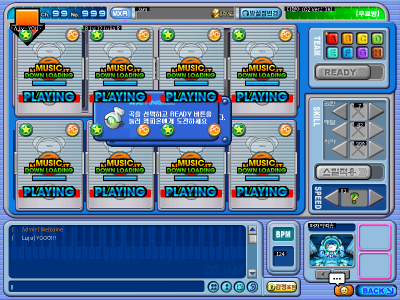
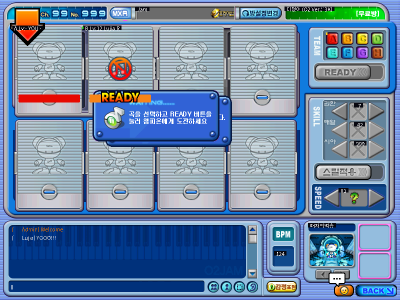
feat(waiting): paint seat indicators from live seat flags
The seat template `SET 0x0C 0x00015000` cloned per seat, but every seat
painted every indicator: eight `PLAYING` banners and eight
`MUSIC DOWN LOADING` strips over empty plates. Seat clones now reach
the frame only for occupied seats, and each armed indicator paints its
own frame from the seat's wire data:

- `Wait_ReadyWindow.ojs` (team plate) - one frame per team colour
  (eight layers = teams A-H), frame = team + 1
- `Wait_BossMark.ojs` - the room master's seat only
- `Wait_ReadyText.ojs` - ready seats
- `Wait_NoMusicImage.ojs` - the room names no song
- `Wait_Playing.ojs` - `RoomMember.playing_state` nonzero

Bodies with no pinned flag stay dark and are labelled OPEN with their
next evidence step (`Wait_PCRoomMark`, the download pair, the P2P
banner, the gem marker). The seat indicators also make the viewer's own
flags visible: the self seat now reads its own ready byte (the same
source the fallback rows and the READY toggle use).

Refs #40

diff --git a/crates/o2jam-shell/src/screens/paint.rs b/crates/o2jam-shell/src/screens/paint.rs
@@ -2917,7 +2917,11 @@ fn peer_seat(slot: &RoomSlot) -> WaitingSeat {
 /// Eight seat views: our seat first, then the wire slots, padded empty.
 ///
 /// The wire carries seven peer slots beside self (`JoinedRoom.slots`);
-/// together they are the eight waiting-room seats.
+/// together they are the eight waiting-room seats. OPEN: `slots`
+/// includes our own index (`member_id`), so this view paints our
+/// member twice — the seat-to-cover mapping needs evidence (next step:
+/// a 7.55 waiting capture with two players seated in known slots, then
+/// compare which cover each name lands on).
 #[must_use]
 pub(crate) fn waiting_seats(room: &JoinedRoom) -> Vec<WaitingSeat> {
     let mut seats = Vec::with_capacity(WAITING_SEATS);
@@ -3016,7 +3020,11 @@ pub fn paint_waiting_scene(
     art: &SceneArt,
     captions: &WaitingCaptions<'_>,
 ) {
-    art.paint_backdrop(frame, Screen::Waiting);
+    let seats = staged_seats(room);
+    art.paint_backdrop_live(frame, Screen::Waiting, |placed| {
+        waiting_seat_clone_live(placed, &seats)
+    });
+    paint_waiting_seat_marks(frame, &seats, art);
     if waiting_has_staged_covers(&art.placements) {
         paint_waiting_staged(frame, room, &art.placements, captions);
     } else {
@@ -3090,6 +3098,163 @@ struct StagedSeat {
     present: bool,
     locked: bool,
     champion: bool,
+    /// `RoomMember.master`: the room creator's seat.
+    master: bool,
+    /// `RoomMember.playing_state` nonzero (the member is playing).
+    playing: bool,
+    /// The room names a song (`JoinedRoom.music_id` nonzero).
+    has_song: bool,
+}
+
+/// Seat parents of the `SET 0x0C 0x00015000` seat template, in seat
+/// order: `IDC_BUTTON_SWAIT_EXTEND1..8` (`0x16015022..29`) carry the
+/// eight seat rects, and each one hosts one clone of the template's
+/// 12 members (`docs/ui-loader.md` step 8: the group key is
+/// `code & 0xFF000` = `0x15000`).
+const WAITING_SEAT_PARENT_IDS: [&str; WAITING_SEATS] = [
+    "IDC_BUTTON_SWAIT_EXTEND1",
+    "IDC_BUTTON_SWAIT_EXTEND2",
+    "IDC_BUTTON_SWAIT_EXTEND3",
+    "IDC_BUTTON_SWAIT_EXTEND4",
+    "IDC_BUTTON_SWAIT_EXTEND5",
+    "IDC_BUTTON_SWAIT_EXTEND6",
+    "IDC_BUTTON_SWAIT_EXTEND7",
+    "IDC_BUTTON_SWAIT_EXTEND8",
+];
+
+/// A seat indicator body of the seat template and the live flag that
+/// arms it. Bodies with no pinned flag stay dark (see
+/// [`seat_indicator`]).
+#[derive(Debug, Clone, Copy, PartialEq, Eq)]
+enum SeatIndicator {
+    /// `Wait_ReadyWindow.ojs`: the seat's name plate, one frame per
+    /// team colour (eight layers = teams A–H).
+    TeamPlate,
+    /// `Wait_BossMark.ojs`: the master's star.
+    MasterStar,
+    /// `Wait_ReadyText.ojs`: the ready plate.
+    ReadyPlate,
+    /// `Wait_NoMusicImage.ojs`: the room names no song yet.
+    NoSong,
+    /// `Wait_Playing.ojs`: the member is playing.
+    Playing,
+}
+
+impl SeatIndicator {
+    /// Body name of this indicator.
+    const fn sprite(self) -> &'static str {
+        match self {
+            SeatIndicator::TeamPlate => "Wait_ReadyWindow.ojs",
+            SeatIndicator::MasterStar => "Wait_BossMark.ojs",
+            SeatIndicator::ReadyPlate => "Wait_ReadyText.ojs",
+            SeatIndicator::NoSong => "Wait_NoMusicImage.ojs",
+            SeatIndicator::Playing => "Wait_Playing.ojs",
+        }
+    }
+
+    /// Icon-control frame for this seat (frame *n* paints layer *n−1*;
+    /// the setter clamps, see [`icon_frame_layer`]).
+    fn frame(self, seat: &StagedSeat) -> Option<u8> {
+        if !seat.present {
+            return None;
+        }
+        match self {
+            SeatIndicator::TeamPlate => Some(seat.team.saturating_add(1)),
+            SeatIndicator::MasterStar => seat.master.then_some(1),
+            SeatIndicator::ReadyPlate => seat.ready.then_some(1),
+            SeatIndicator::NoSong => (!seat.has_song).then_some(1),
+            SeatIndicator::Playing => seat.playing.then_some(1),
+        }
+    }
+}
+
+/// Indicator body behind one seat-template sprite name. Bodies with no
+/// pinned flag return `None` and stay dark:
+///
+/// - `Wait_PCRoomMark.ojs` — PC-room badge; the wire carries no
+///   matching field (OPEN: find the flag the exe reads).
+/// - `Wait_Downloding.ojs` / `Wait_Downloding_Bar.ojs` — song download
+///   progress; the shell models no download (OPEN).
+/// - `Waiting_P2P_Image.ojs` — P2P versus banner; needs the room's
+///   venue class (OPEN).
+/// - `Wait_NoGemImage.ojs` — gem-less marker; `RoomMember.gem` exists,
+///   but which value arms the plate is untraced (OPEN).
+fn seat_indicator(sprite: &str) -> Option<SeatIndicator> {
+    [
+        SeatIndicator::TeamPlate,
+        SeatIndicator::MasterStar,
+        SeatIndicator::ReadyPlate,
+        SeatIndicator::NoSong,
+        SeatIndicator::Playing,
+    ]
+    .into_iter()
+    .find(|indicator| indicator.sprite() == sprite)
+}
+
+/// Seat index owning one staged clone (`None` for other placements).
+fn seat_clone_index(placed: &ScenePlacement) -> Option<usize> {
+    if placed.role != PlacementRole::Clone {
+        return None;
+    }
+    WAITING_SEAT_PARENT_IDS
+        .iter()
+        .position(|id| *id == placed.id)
+}
+
+/// Whether one seat-template clone reaches the frame: occupied seats
+/// show the armed indicators, vacant and locked seats keep their bare
+/// cover plate (the exe clones the template per seated player only).
+fn waiting_seat_clone_live(placed: &ScenePlacement, seats: &[StagedSeat]) -> bool {
+    let Some(index) = seat_clone_index(placed) else {
+        return true;
+    };
+    let Some(seat) = seats.get(index) else {
+        return false;
+    };
+    if !seat.present {
+        return false;
+    }
+    let Some(indicator) = placed.sprite.as_deref().and_then(seat_indicator) else {
+        return false;
+    };
+    indicator.frame(seat).is_some()
+}
+
+/// Paint every armed seat indicator at its clone rect with the seat's
+/// frame. The clone base pass already painted frame 0 there, so this
+/// pass owns the live frame; unarmed bodies were filtered out above.
+fn paint_waiting_seat_marks(frame: &mut Frame<'_>, seats: &[StagedSeat], art: &SceneArt) {
+    for placed in &art.placements {
+        let Some(index) = seat_clone_index(placed) else {
+            continue;
+        };
+        let Some(seat) = seats.get(index) else {
+            continue;
+        };
+        let Some(indicator) = placed.sprite.as_deref().and_then(seat_indicator) else {
+            continue;
+        };
+        let (Some(figure_name), Some(icon_frame)) =
+            (placed.sprite.as_deref(), indicator.frame(seat))
+        else {
+            continue;
+        };
+        let Some(figure) = art.figures.get(figure_name) else {
+            continue;
+        };
+        let Some(layer) = icon_frame_layer(icon_frame, figure.len()).and_then(|i| figure.layer(i))
+        else {
+            continue;
+        };
+        let dest = scale_rect_to_frame(&placed.rect, frame.w, frame.h);
+        blit_rgb555(
+            frame,
+            &layer.image.view(),
+            dest.x + layer.dx,
+            dest.y + layer.dy,
+            Some(layer.colorkey),
+        );
+    }
 }
 
 /// Staged seats in cover order: self first, then the seven wire slots
@@ -3097,14 +3262,22 @@ struct StagedSeat {
 /// [`waiting_seats`], with levels and the champion mark kept.
 fn staged_seats(room: &JoinedRoom) -> Vec<StagedSeat> {
     let mut seats = Vec::with_capacity(WAITING_SEATS);
+    let own = room.slots.iter().find(|slot| slot.index == room.member_id);
     seats.push(StagedSeat {
         name: "YOU".to_owned(),
         level: None,
         team: room.team,
-        ready: false,
+        ready: own
+            .and_then(|slot| slot.member.as_ref())
+            .is_some_and(|member| member.ready),
         present: true,
         locked: false,
         champion: room.champion == Some(0),
+        master: room.member_id == 0,
+        playing: own
+            .and_then(|slot| slot.member.as_ref())
+            .is_some_and(|member| member.playing_state != 0),
+        has_song: room.music_id != 0,
     });
     for (offset, slot) in room.slots.iter().take(WAITING_PEERS).enumerate() {
         let index = u8::try_from(offset + 1).unwrap_or(u8::MAX);
@@ -3127,6 +3300,9 @@ fn staged_peer_seat(slot: &RoomSlot, champion: bool) -> StagedSeat {
             present: true,
             locked: false,
             champion,
+            master: member.master,
+            playing: member.playing_state != 0,
+            has_song: !member.music_ids.is_empty(),
         },
         None if slot.state_code == RoomSlotState::Locked as i32 => StagedSeat {
             name: String::new(),
@@ -3136,6 +3312,9 @@ fn staged_peer_seat(slot: &RoomSlot, champion: bool) -> StagedSeat {
             present: false,
             locked: true,
             champion: false,
+            master: false,
+            playing: false,
+            has_song: false,
         },
         None => empty_staged_seat(),
     }
@@ -3151,6 +3330,9 @@ fn empty_staged_seat() -> StagedSeat {
         present: false,
         locked: false,
         champion: false,
+        master: false,
+        playing: false,
+        has_song: false,
     }
 }
 
@@ -8565,9 +8747,11 @@ mod paint_tests {
         assert_eq!(buf[51 * 800 + 166], scrim_color(), "champion scrim");
         assert_eq!(buf[51 * 800 + 24], scrim_color(), "challenger scrim");
         assert!(has_ink_near(&buf, art_title_ink()));
-        // Ready dots ride the cover lines: host ready green, self dim.
+        // Ready dots ride the cover lines: both seats carry their own
+        // wire ready flag (the self seat reads `slots[member_id]`, the
+        // same source the flat fallback and the READY toggle use).
         assert_eq!(buf[55 * 800 + 165], pack_xrgb(0x30, 0xE0, 0x30));
-        assert_eq!(buf[55 * 800 + 23], pack_xrgb(0x50, 0x50, 0x50));
+        assert_eq!(buf[55 * 800 + 23], pack_xrgb(0x30, 0xE0, 0x30));
     }
 
     #[test]
@@ -8790,6 +8974,9 @@ mod paint_tests {
             present: true,
             locked: false,
             champion: true,
+            master: true,
+            playing: false,
+            has_song: true,
         };
         assert_eq!(
             staged_seat_text(&champion, Some("CHAMPION")),
@@ -8804,6 +8991,9 @@ mod paint_tests {
             present: true,
             locked: false,
             champion: false,
+            master: false,
+            playing: false,
+            has_song: false,
         };
         assert_eq!(
             staged_seat_text(&challenger, Some("CHALLENGER")),

diff --git a/crates/recomp2jam/src/shots.rs b/crates/recomp2jam/src/shots.rs
@@ -3477,11 +3477,12 @@ mod tests {
     }
 
     #[test]
-    fn guest_capture_matches_master_waiting_but_not_select_view() {
-        // Artifact verdict: the guest capture replays the master waiting
-        // instant seat-for-seat (same captions, chat, and seats — the
-        // seat id paints nothing), while the master select view carries
-        // the staged dialog and panel on top.
+    fn guest_capture_carries_its_own_seats_but_no_select_view() {
+        // The seat template paints from live flags (`SeatIndicator`:
+        // master star, ready plate, no-song mark), so the guest view
+        // differs from the master view in its own seat — the guest is
+        // not the room master and sees READY instead of START. The
+        // select-music dialog and panel stay master-only either way.
         let shots = capture_all().unwrap();
         let by_name = |name: &str| {
             shots
@@ -3489,10 +3490,10 @@ mod tests {
                 .find(|shot| shot.name == name)
                 .unwrap_or_else(|| panic!("missing shot {name}"))
         };
-        assert_eq!(
+        assert_ne!(
             by_name("waiting-guest").rgb,
             by_name("waiting").rgb,
-            "guest must replay the master waiting instant"
+            "seat indicators must carry the viewer's own flags"
         );
         assert_ne!(
             by_name("waiting-guest").rgb,
